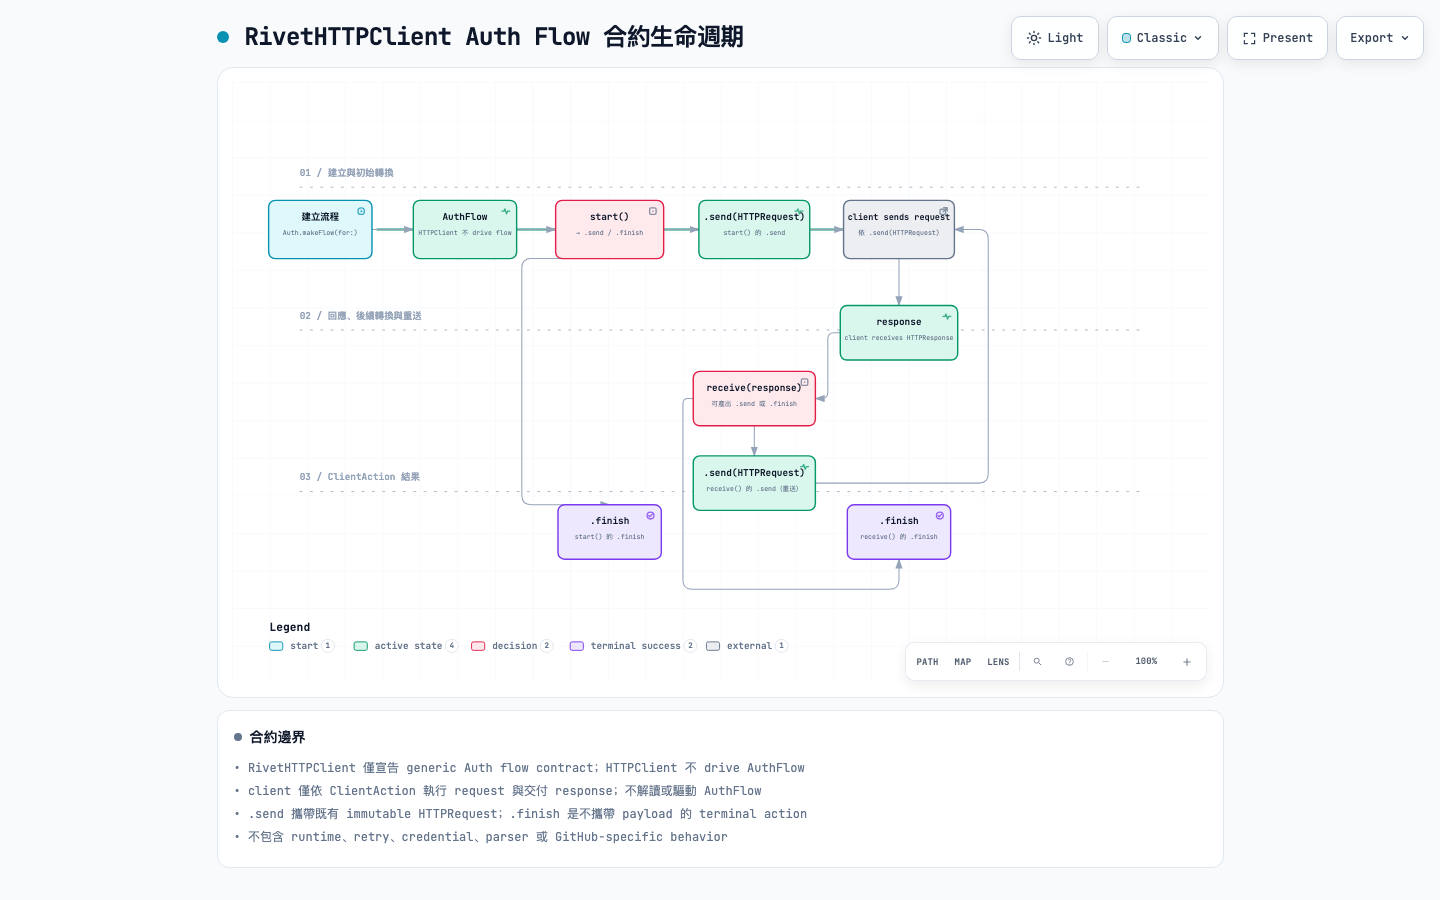
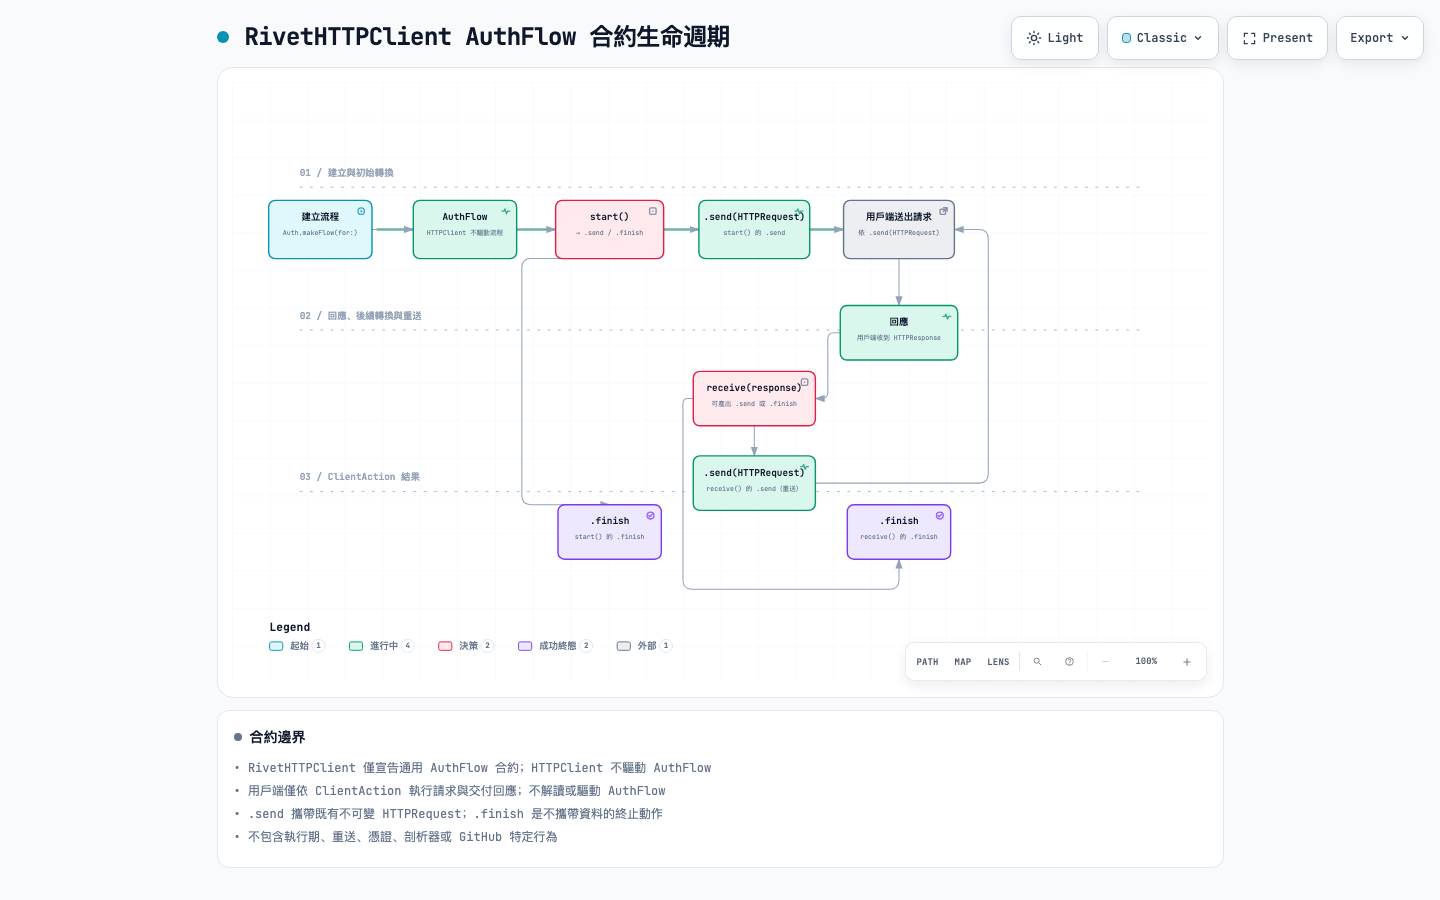
docs(http-client): 繁中化 Auth Flow lifecycle

diff --git a/docs/architecture/diagrams/http-client-auth-flow-contract/auth-flow-lifecycle.html b/docs/architecture/diagrams/http-client-auth-flow-contract/auth-flow-lifecycle.html
@@ -4,7 +4,7 @@
   <meta charset="UTF-8">
   <meta name="viewport" content="width=device-width, initial-scale=1.0">
   <meta name="generator" content="archify 2.16.0-dev.0">
-  <title>RivetHTTPClient Auth Flow 合約生命週期 Diagram</title>
+  <title>RivetHTTPClient AuthFlow 合約生命週期 Diagram</title>
   <script>
     // Resolve the theme before first paint so light-preference users don't
     // see a dark flash. The toolbar script below re-applies with UI state.
@@ -4948,7 +4948,7 @@
            data-preset-badge-blueprint="BLUEPRINT / REV 01"
            data-preset-badge-editorial="EDITORIAL / FIELD NOTE">
         <div class="pulse-dot"></div>
-        <h1>RivetHTTPClient Auth Flow 合約生命週期</h1>
+        <h1>RivetHTTPClient AuthFlow 合約生命週期</h1>
       </div>
     </div>
 
@@ -4998,7 +4998,7 @@
     <div class="diagram-container" data-detail-level="read"
          data-preset-badge-editorial-plate="ARCHIFY / PLATE 04">
       <svg viewBox="0 0 1040 640" role="img" lang="en" aria-labelledby="archify-diagram-title archify-diagram-description" data-preset="classic" data-quality-profile="showcase">
-        <title id="archify-diagram-title">RivetHTTPClient Auth Flow 合約生命週期</title>
+        <title id="archify-diagram-title">RivetHTTPClient AuthFlow 合約生命週期</title>
         <desc id="archify-diagram-description">A lifecycle diagram generated by Archify.</desc>
         <!-- Definitions -->
         <defs>
@@ -5060,8 +5060,8 @@
         <text data-detail="fine" x="94" y="177" class="t-frontend" font-size="7" text-anchor="middle">入口</text>
         </g>
 
-        <g id="node-auth-flow" data-node-id="auth-flow" data-node-label="AuthFlow" tabindex="0" role="button" aria-label="Focus AuthFlow, HTTPClient 不 drive flow, 建立與初始轉換" aria-pressed="false" data-node-kind="active" data-node-sublabel="HTTPClient 不 drive flow" data-node-tag="合約" data-node-context="建立與初始轉換">
-          <title>AuthFlow · HTTPClient 不 drive flow · 建立與初始轉換 · 合約</title>
+        <g id="node-auth-flow" data-node-id="auth-flow" data-node-label="AuthFlow" tabindex="0" role="button" aria-label="Focus AuthFlow, HTTPClient 不驅動流程, 建立與初始轉換" aria-pressed="false" data-node-kind="active" data-node-sublabel="HTTPClient 不驅動流程" data-node-tag="合約" data-node-context="建立與初始轉換">
+          <title>AuthFlow · HTTPClient 不驅動流程 · 建立與初始轉換 · 合約</title>
           <rect x="193" y="126" width="110" height="62" rx="7" class="c-mask"/>
           <rect x="193" y="126" width="110" height="62" rx="7" class="c-backend" stroke-width="1.5"/>
           <g aria-hidden="true" data-semantic-sigil="active" class="semantic-sigil s-backend" transform="translate(286 132) scale(0.6875)">
@@ -5069,7 +5069,7 @@
           </g>
         <text data-detail="fine" x="203" y="140" class="t-backend" font-size="7" font-weight="700">02</text>
           <text data-node-label="" data-detail-anchor="" x="248" y="147" class="t-primary" font-size="10" font-weight="600" text-anchor="middle">AuthFlow</text>
-          <text data-detail="context" x="248" y="163" class="t-muted" font-size="7" text-anchor="middle">HTTPClient 不 drive flow</text>
+          <text data-detail="context" x="248" y="163" class="t-muted" font-size="7" text-anchor="middle">HTTPClient 不驅動流程</text>
         <text data-detail="fine" x="248" y="177" class="t-backend" font-size="7" text-anchor="middle">合約</text>
         </g>
 
@@ -5100,8 +5100,8 @@
         <text data-detail="fine" x="556" y="177" class="t-backend" font-size="7" text-anchor="middle">start() 輸出</text>
         </g>
 
-        <g id="node-client-send" data-node-id="client-send" data-node-label="client sends request" tabindex="0" role="button" aria-label="Focus client sends request, 依 .send(HTTPRequest), 建立與初始轉換" aria-pressed="false" data-node-kind="external" data-node-sublabel="依 .send(HTTPRequest)" data-node-tag="外部執行" data-node-context="建立與初始轉換">
-          <title>client sends request · 依 .send(HTTPRequest) · 建立與初始轉換 · 外部執行</title>
+        <g id="node-client-send" data-node-id="client-send" data-node-label="用戶端送出請求" tabindex="0" role="button" aria-label="Focus 用戶端送出請求, 依 .send(HTTPRequest), 建立與初始轉換" aria-pressed="false" data-node-kind="external" data-node-sublabel="依 .send(HTTPRequest)" data-node-tag="外部執行" data-node-context="建立與初始轉換">
+          <title>用戶端送出請求 · 依 .send(HTTPRequest) · 建立與初始轉換 · 外部執行</title>
           <rect x="651" y="126" width="118" height="62" rx="7" class="c-mask"/>
           <rect x="651" y="126" width="118" height="62" rx="7" class="c-external" stroke-width="1.5"/>
           <g aria-hidden="true" data-semantic-sigil="external" class="semantic-sigil s-external" transform="translate(752 132) scale(0.6875)">
@@ -5109,20 +5109,20 @@
             <path d="M8 2.5h5.5V8M13.5 2.5 7.5 8.5"/>
           </g>
         <text data-detail="fine" x="661" y="140" class="t-muted" font-size="7" font-weight="700">05</text>
-          <text data-node-label="" data-detail-anchor="" x="710" y="147" class="t-primary" font-size="9.1" font-weight="600" text-anchor="middle">client sends request</text>
+          <text data-node-label="" data-detail-anchor="" x="710" y="147" class="t-primary" font-size="10" font-weight="600" text-anchor="middle">用戶端送出請求</text>
           <text data-detail="context" x="710" y="163" class="t-muted" font-size="7" text-anchor="middle">依 .send(HTTPRequest)</text>
         <text data-detail="fine" x="710" y="177" class="t-muted" font-size="7" text-anchor="middle">外部執行</text>
         </g>
 
-        <g id="node-response" data-node-id="response" data-node-label="response" tabindex="0" role="button" aria-label="Focus response, client receives HTTPResponse, 回應、後續轉換與重送" aria-pressed="false" data-node-kind="active" data-node-sublabel="client receives HTTPResponse" data-node-tag="回應" data-node-context="回應、後續轉換與重送">
-          <title>response · client receives HTTPResponse · 回應、後續轉換與重送 · 回應</title>
+        <g id="node-response" data-node-id="response" data-node-label="回應" tabindex="0" role="button" aria-label="Focus 回應, 用戶端收到 HTTPResponse, 回應、後續轉換與重送" aria-pressed="false" data-node-kind="active" data-node-sublabel="用戶端收到 HTTPResponse" data-node-tag="回應" data-node-context="回應、後續轉換與重送">
+          <title>回應 · 用戶端收到 HTTPResponse · 回應、後續轉換與重送 · 回應</title>
           <rect x="647.5" y="238" width="125" height="58" rx="7" class="c-mask"/>
           <rect x="647.5" y="238" width="125" height="58" rx="7" class="c-backend" stroke-width="1.5"/>
           <g aria-hidden="true" data-semantic-sigil="active" class="semantic-sigil s-backend" transform="translate(755.5 244) scale(0.6875)">
             <path d="M2 8h3l1.5-3.5L9 12l1.6-4H14"/>
           </g>
-          <text data-node-label="" data-detail-anchor="" x="710" y="259" class="t-primary" font-size="10" font-weight="600" text-anchor="middle">response</text>
-          <text data-detail="context" x="710" y="275" class="t-muted" font-size="6.9" text-anchor="middle">client receives HTTPResponse</text>
+          <text data-node-label="" data-detail-anchor="" x="710" y="259" class="t-primary" font-size="10" font-weight="600" text-anchor="middle">回應</text>
+          <text data-detail="context" x="710" y="275" class="t-muted" font-size="7" text-anchor="middle">用戶端收到 HTTPResponse</text>
         <text data-detail="fine" x="710" y="285" class="t-backend" font-size="7" text-anchor="middle">回應</text>
         </g>
 
@@ -5192,25 +5192,25 @@
         <!-- Legend -->
         <g data-legend="" data-legend-bridge="">
           <text x="40" y="584" class="t-primary" font-size="12" font-weight="650">Legend</text>
-          <g data-legend-semantic-kind="start" data-legend-kind="start" data-legend-label="start" data-legend-x="40" data-legend-baseline="604" data-legend-width="68">
+          <g data-legend-semantic-kind="start" data-legend-kind="start" data-legend-label="起始" data-legend-x="40" data-legend-baseline="604" data-legend-width="63">
             <rect x="40" y="596" width="14" height="9" rx="2" class="c-frontend" stroke-width="1"/>
-            <text x="62" y="604" class="t-muted" font-size="10" font-weight="500">start</text>
+            <text x="62" y="604" class="t-muted" font-size="10" font-weight="500">起始</text>
           </g>
-          <g data-legend-semantic-kind="active" data-legend-kind="active" data-legend-label="active state" data-legend-x="130" data-legend-baseline="604" data-legend-width="103">
-            <rect x="130" y="596" width="14" height="9" rx="2" class="c-backend" stroke-width="1"/>
-            <text x="152" y="604" class="t-muted" font-size="10" font-weight="500">active state</text>
+          <g data-legend-semantic-kind="active" data-legend-kind="active" data-legend-label="進行中" data-legend-x="125" data-legend-baseline="604" data-legend-width="73">
+            <rect x="125" y="596" width="14" height="9" rx="2" class="c-backend" stroke-width="1"/>
+            <text x="147" y="604" class="t-muted" font-size="10" font-weight="500">進行中</text>
           </g>
-          <g data-legend-semantic-kind="decision" data-legend-kind="decision" data-legend-label="decision" data-legend-x="255" data-legend-baseline="604" data-legend-width="83">
-            <rect x="255" y="596" width="14" height="9" rx="2" class="c-security" stroke-width="1"/>
-            <text x="277" y="604" class="t-muted" font-size="10" font-weight="500">decision</text>
+          <g data-legend-semantic-kind="decision" data-legend-kind="decision" data-legend-label="決策" data-legend-x="220" data-legend-baseline="604" data-legend-width="63">
+            <rect x="220" y="596" width="14" height="9" rx="2" class="c-security" stroke-width="1"/>
+            <text x="242" y="604" class="t-muted" font-size="10" font-weight="500">決策</text>
           </g>
-          <g data-legend-semantic-kind="success" data-legend-kind="success" data-legend-label="terminal success" data-legend-x="360" data-legend-baseline="604" data-legend-width="123">
-            <rect x="360" y="596" width="14" height="9" rx="2" class="c-database" stroke-width="1"/>
-            <text x="382" y="604" class="t-muted" font-size="10" font-weight="500">terminal success</text>
+          <g data-legend-semantic-kind="success" data-legend-kind="success" data-legend-label="成功終態" data-legend-x="305" data-legend-baseline="604" data-legend-width="83">
+            <rect x="305" y="596" width="14" height="9" rx="2" class="c-database" stroke-width="1"/>
+            <text x="327" y="604" class="t-muted" font-size="10" font-weight="500">成功終態</text>
           </g>
-          <g data-legend-semantic-kind="external" data-legend-kind="external" data-legend-label="external" data-legend-x="505" data-legend-baseline="604" data-legend-width="83">
-            <rect x="505" y="596" width="14" height="9" rx="2" class="c-external" stroke-width="1"/>
-            <text x="527" y="604" class="t-muted" font-size="10" font-weight="500">external</text>
+          <g data-legend-semantic-kind="external" data-legend-kind="external" data-legend-label="外部" data-legend-x="410" data-legend-baseline="604" data-legend-width="63">
+            <rect x="410" y="596" width="14" height="9" rx="2" class="c-external" stroke-width="1"/>
+            <text x="432" y="604" class="t-muted" font-size="10" font-weight="500">外部</text>
           </g>
         </g>
       </svg>
@@ -5405,10 +5405,10 @@
           <h3>合約邊界</h3>
         </div>
         <ul>
-          <li>&bull; RivetHTTPClient 僅宣告 generic Auth flow contract；HTTPClient 不 drive AuthFlow</li>
-          <li>&bull; client 僅依 ClientAction 執行 request 與交付 response；不解讀或驅動 AuthFlow</li>
-          <li>&bull; .send 攜帶既有 immutable HTTPRequest；.finish 是不攜帶 payload 的 terminal action</li>
-          <li>&bull; 不包含 runtime、retry、credential、parser 或 GitHub-specific behavior</li>
+          <li>&bull; RivetHTTPClient 僅宣告通用 AuthFlow 合約；HTTPClient 不驅動 AuthFlow</li>
+          <li>&bull; 用戶端僅依 ClientAction 執行請求與交付回應；不解讀或驅動 AuthFlow</li>
+          <li>&bull; .send 攜帶既有不可變 HTTPRequest；.finish 是不攜帶資料的終止動作</li>
+          <li>&bull; 不包含執行期、重送、憑證、剖析器或 GitHub 特定行為</li>
         </ul>
       </div>
     </div>

diff --git a/plan/swift-http-client-auth-flow-contract/swift-http-client-auth-flow-contract.step.md b/plan/swift-http-client-auth-flow-contract/swift-http-client-auth-flow-contract.step.md
@@ -2,7 +2,7 @@
 
 ## Current Phase
 
-等待 RV-01 re-review。IM-01 lifecycle correction 與 TE-01 fresh correction evidence 已完成；original test-first evidence 永久不可驗證且已獲 human acceptance。尚未進入 delivery 或 human review。
+pr-comment-review-and-fix。RV-01 已完成；PR #24 P1 本機 WIP 已完成但待獨立驗證，P2 valid actionable 修正與最終 human review 均未完成。
 
 ## Ledger
 
@@ -10,13 +10,15 @@
 | --- | --- | --- | --- | --- | --- |
 | PL-01 | Plan-Creator | completed | 建立並修訂同 slug 的四份 planning artifacts。 | 四份文件一致記錄 declarations-only public contract、授權的 ownership writeback、Archify lifecycle artifact、TDD truthfulness 與 role-separated gates。 | 本 topic 的四份 planning artifacts；2026-09-11 scope correction 已 materialize。 |
 | PR-01 | Plan-Reviewer | completed | 獨立審查擴張後的 scope、public contract、docs／diagram boundary、TDD truthfulness 與 implementation readiness。 | 明示 `approved`、`needs-rework`、`blocked` 或 `human-check`；只有涵蓋擴張 scope 的 approved 可進入 IM-01。 | approved；涵蓋 ownership writeback、Archify showcase／人工 visual-review gates 與 TDD truthfulness。 |
[4 lines of base64/hex data omitted]
 | RV-01 | Reviewer | completed | 僅在本次 TE-01 完成後，獨立審查 scope、contract、docs／diagram 與 verification evidence。 | 明示 verdict；任何 HTTP client、runtime、GitHub 或 architecture drift 優先 needs-rework 或 human-check。 | approved（2026-09-11 remote final review）：遠端 head `d941d489181348a717b25882d746c0d9803e97e5` 的可達 topic history、tree 與 latest diff 無本機 absolute path；receipt 為 repository-relative path 與 null Chrome executable，SHA 與 delivered JSON／HTML 一致。lifecycle 明示 initial `.send → client sends request → response → receive`、receive `.send` 重送回 client、start／receive 各自 `.finish`，並保留 HTTPClient 不 drive flow；showcase validate 9/9、0 errors、0 warnings，receipt 四 viewport 與人工 visual evidence 一致。Tester 的 AuthTests 1、SwiftPM 45 tests／7 suites、diff check evidence 已記錄；global suite limitation 未誤稱通過。PR #24 #6 與 #7 均為 outdated，內容已由 d941 修正；待 TE-01／RV-01 ledger evidence 以單一 topic commit 推送後，可回覆並 resolve #6、#7，再停止交 human review。 |
 
 ## Blockers
 
-- RV-01 尚未完成新的獨立 re-review verdict；在明示 verdict 前不得進入 delivery。
+- PR #24 P1 本機 WIP 已完成，但尚待獨立驗證；不得視為已驗證或已回覆。
+- PR #24 P2 是 valid actionable，修正、驗證與 review-comment follow-up 均未完成。
+- 最終 human review 尚未完成；不得將未來 test、review 或 comment resolution 預先標為完成。
 
 ## Human Check
 
@@ -29,4 +31,4 @@
 
 ## Last Updated
 
-2026-09-11（IM-01 completed；TE-01 completed with fresh correction evidence；等待 RV-01 re-review）
+2026-09-11（RV-01 completed；進入 pr-comment-review-and-fix，等待 P1 獨立驗證、P2 修正與最終 human review）
